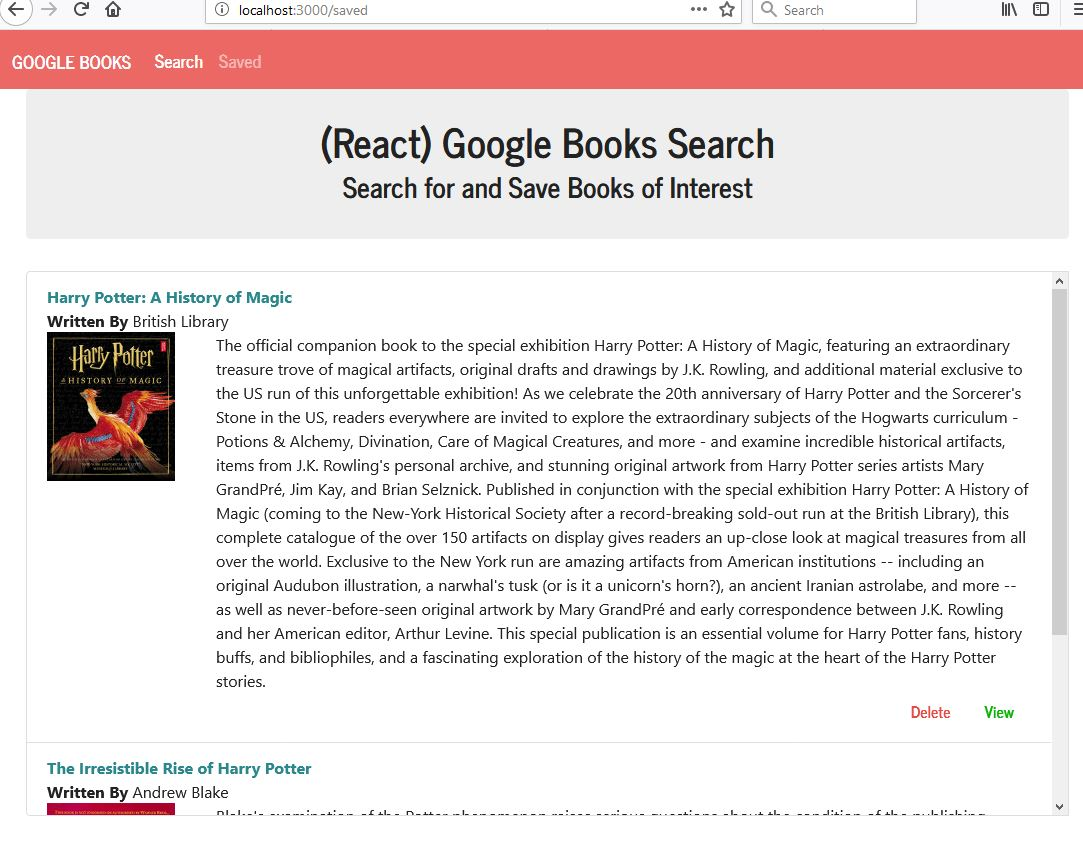
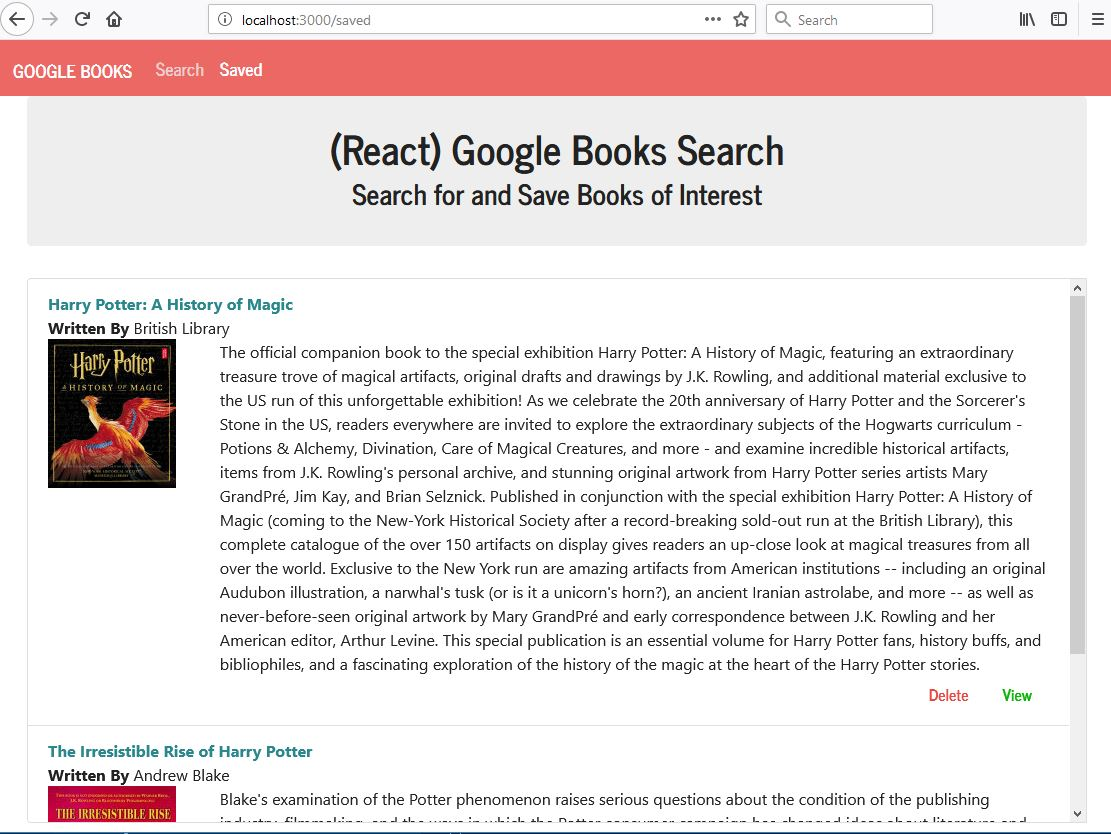
added active links

Changed region(s): [[0.0305, 0.3118, 1.0, 0.8417], [0.0, 0.0, 1.0, 0.2494], [0.0, 0.8729, 1.0, 1.0]]

diff --git a/client/src/pages/BooksSaved.js b/client/src/pages/BooksSaved.js
@@ -43,11 +43,7 @@ class BooksSaved extends Component {
     API.detailBook(id)
       .then(res =>console.log(res))
       .catch(err =>console.log(err));
-    // API.deleteBook(id)
-    //   .then(res => console.log(res))
-    //   .catch(err => console.log(err));
   };
-
 
   handleInputChange = event => {
     const { name, value } = event.target;

diff --git a/client/src/components/Nav/index.js b/client/src/components/Nav/index.js
@@ -1,5 +1,5 @@
 import React from "react";
-import { NavLink, Link } from "react-router-dom"
+import { NavLink} from "react-router-dom"
 import "./style.css";
 
 function Nav() {

diff --git a/client/src/pages/Detail.js b/client/src/pages/Detail.js
@@ -17,7 +17,6 @@ class Detail extends Component {
   }
 
   render() {
-    console.log("*detail*")
     return (
       <Container fluid>
         <Row>
